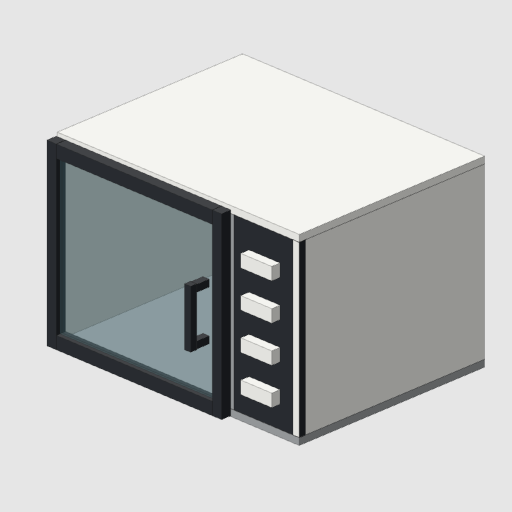
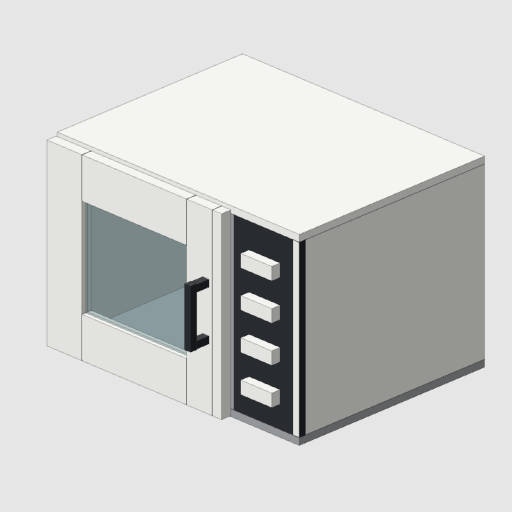
Refine microwave door, clockwise knobs and feature descriptions

Changed region(s): [[0.0938, 0.25, 0.4688, 0.8438]]

diff --git a/tests/microwave.test.js b/tests/microwave.test.js
@@ -1,4 +1,5 @@
 import { BoxGeometry, Group, Mesh, Vector3 } from 'three';
+import { DOMParser } from '@xmldom/xmldom';
 import { expect, it } from 'vitest';
 import * as microwave from '../assets/appliances/microwave/index.js';
 import { validateAsset } from '../validator/validate.js';
@@ -56,11 +57,72 @@ it('describes every layout, finish and opening style deterministically with exac
         expect(microwave.describe(params, () => n)).toBe(text);
         expect(text).toContain('0.47 m wide, 0.29 m tall and 0.41 m deep');
         expect(text).toContain(microwave.schema.parameters.finish.labels[finish]);
-        expect(text).toContain(controlLayout === 'dials' ? 'two dials and a start button' : 'a button panel');
+        expect(text).toContain(controlLayout === 'dials' ? 'two dials, a start button' : 'a button panel');
         expect(text).toContain(doorOpening === 'handle' ? 'raised door handle' : 'door-release button and a recessed pull edge');
         expect(text).toContain('looks worn.');
         expect(text).not.toContain('0.35');
+        const features = {
+          'dials/handle': 'two dials, a start button and a raised door handle',
+          'dials/release_button': 'two dials, a start button, a door-release button and a recessed pull edge',
+          'buttons/handle': 'a button panel and a raised door handle',
+          'buttons/release_button': 'a button panel, a door-release button and a recessed pull edge'
+        };
+        expect(text).toContain(features[controlLayout + '/' + doorOpening] + '.');
       }
+    }
+  }
+});
+
+it('turns both knob indicators clockwise from the front for positive joint positions', () => {
+  const root = microwave.createAsset();
+  for (const control of root.userData.controls.filter(c => c.type === 'knob')) {
+    const joint = root.userData.joints.find(j => j.name === control.joint);
+    const part = root.getObjectByName(joint.childPart);
+    const indicator = root.getObjectByName(control.name + '_indicator');
+    const before = indicator.getWorldPosition(new Vector3());
+    expect(joint.axis).toEqual([0, 0, -1]);
+    part.rotateOnAxis(new Vector3(...joint.axis), Math.PI / 2);
+    const after = indicator.getWorldPosition(new Vector3());
+    expect(after.x - before.x).toBeCloseTo(0.013, 9);
+    expect(after.y - before.y).toBeCloseTo(-0.013, 9);
+  }
+});
+
+it('surrounds a centered inset glass box with opaque panels in the shell finish', () => {
+  for (const finish of ['stainless', 'black', 'white']) for (const doorOpening of ['handle', 'release_button']) {
+    const root = microwave.createAsset({ finish, doorOpening });
+    const window = root.getObjectByName('door_window');
+    const left = root.getObjectByName('door_frame_left');
+    const top = root.getObjectByName('door_frame_top');
+    const bottom = root.getObjectByName('door_frame_bottom');
+    const right = root.getObjectByName('door_frame_right_inner');
+    const doorWidth = 0.52 * 0.73 - 0.004, doorHeight = 0.30 - 0.008;
+    expect(window.geometry.parameters.width).toBeCloseTo(doorWidth * 0.60, 9);
+    expect(window.geometry.parameters.height).toBeCloseTo(doorHeight * 0.55, 9);
+    expect(window.position.x).toBeCloseTo(doorWidth / 2, 9);
+    expect(window.position.y).toBe(0);
+    for (const panel of [left, top, bottom, right]) {
+      expect(panel.material).toBe(root.getObjectByName('case_top').material);
+      expect(panel.material.transparent).toBe(false);
+      expect(panel.material.opacity).toBe(1);
+    }
+    expect(left.position.x + left.geometry.parameters.width / 2)
+      .toBeCloseTo(window.position.x - window.geometry.parameters.width / 2, 9);
+    expect(right.position.x - right.geometry.parameters.width / 2)
+      .toBeCloseTo(window.position.x + window.geometry.parameters.width / 2, 9);
+    expect(top.position.y - top.geometry.parameters.height / 2).toBeCloseTo(window.geometry.parameters.height / 2, 9);
+    expect(bottom.position.y + bottom.geometry.parameters.height / 2).toBeCloseTo(-window.geometry.parameters.height / 2, 9);
+    expect(window.position.z + window.geometry.parameters.depth / 2)
+      .toBeLessThan(top.position.z + top.geometry.parameters.depth / 2);
+    const xml = new DOMParser().parseFromString(exportURDF(root).urdf, 'text/xml');
+    const visual = Array.from(xml.getElementsByTagName('visual')).find(e => e.getAttribute('name') === 'visual_door_window');
+    const collision = Array.from(xml.getElementsByTagName('collision')).find(e => e.getAttribute('name') === 'door_window');
+    for (const tag of ['origin', 'geometry']) {
+      expect(collision.getElementsByTagName(tag)[0].toString()).toBe(visual.getElementsByTagName(tag)[0].toString());
+    }
+    const dimensions = collision.getElementsByTagName('box')[0].getAttribute('size').split(' ').map(Number);
+    for (const [i, size] of [window.geometry.parameters.width, window.geometry.parameters.height, 0.004].entries()) {
+      expect(dimensions[i]).toBeCloseTo(size, 7);
     }
   }
 });

diff --git a/assets/appliances/microwave/index.js b/assets/appliances/microwave/index.js
@@ -19,10 +19,11 @@ export const schema = {
 
 export function describe(params, random) {
   const p = resolveParams(schema, params);
-  const layout = p.controlLayout === 'dials' ? 'two dials and a start button' : 'a button panel';
-  const opening = p.doorOpening === 'handle' ? 'a raised door handle' : 'a door-release button and a recessed pull edge';
+  const features = p.controlLayout === 'dials' ? ['two dials', 'a start button'] : ['a button panel'];
+  features.push(...(p.doorOpening === 'handle' ? ['a raised door handle'] : ['a door-release button', 'a recessed pull edge']));
+  const featureList = features.slice(0, -1).join(', ') + ' and ' + features.at(-1);
   const intro = random() < 0.5 ? 'A countertop microwave' : 'Build a countertop microwave';
-  return intro + ' with a ' + schema.parameters.finish.labels[p.finish] + ' finish, ' + layout + ' and ' + opening +
+  return intro + ' with a ' + schema.parameters.finish.labels[p.finish] + ' finish, ' + featureList +
     '. The case is ' + p.width.toFixed(2) + ' m wide, ' + p.height.toFixed(2) + ' m tall and ' + p.depth.toFixed(2) +
     ' m deep. It looks ' + wearBand(p.wear) + '.';
 }
@@ -77,14 +78,19 @@ export function createAsset(params = {}, { seed = 0 } = {}) {
 
   const doorWidth = width - panelWidth - 0.004, doorHeight = height - 0.008;
   const door = group(root, 'door', [-width / 2 + 0.002, height / 2, front + 0.022]);
-  box(door, 'door_frame_left', [0.018, doorHeight, 0.018], [0.009, 0, -0.009], dark);
+  const windowWidth = doorWidth * 0.60, windowHeight = doorHeight * 0.55;
+  const borderWidth = (doorWidth - windowWidth) / 2, borderHeight = (doorHeight - windowHeight) / 2;
+  box(door, 'door_frame_left', [borderWidth, doorHeight, 0.018], [borderWidth / 2, 0, -0.009]);
   for (const [side, sign] of [['top', 1], ['bottom', -1]]) {
-    box(door, 'door_frame_' + side, [doorWidth - 0.036, 0.022, 0.018],
-      [doorWidth / 2, sign * (doorHeight - 0.022) / 2, -0.009], dark);
+    box(door, 'door_frame_' + side, [windowWidth, borderHeight, 0.018],
+      [doorWidth / 2, sign * (doorHeight - borderHeight) / 2, -0.009]);
   }
-  box(door, 'door_window', [doorWidth - 0.036, doorHeight - 0.044, 0.004], [doorWidth / 2, 0, -0.009], glass);
+  box(door, 'door_window', [windowWidth, windowHeight, 0.004], [doorWidth / 2, 0, -0.009], glass);
+  // Reserve the outer 18 mm for the handle edge or the open recessed pull channel.
+  box(door, 'door_frame_right_inner', [borderWidth - 0.018, doorHeight, 0.018],
+    [doorWidth - (borderWidth + 0.018) / 2, 0, -0.009]);
   if (p.doorOpening === 'handle') {
-    box(door, 'door_frame_right', [0.018, doorHeight, 0.018], [doorWidth - 0.009, 0, -0.009], dark);
+    box(door, 'door_frame_right', [0.018, doorHeight, 0.018], [doorWidth - 0.009, 0, -0.009]);
     for (const [end, y] of [['top', 0.043], ['bottom', -0.043]]) {
       box(door, 'door_handle_mount_' + end, [0.012, 0.012, 0.024], [doorWidth - 0.030, y, 0.012], dark);
     }
@@ -94,10 +100,10 @@ export function createAsset(params = {}, { seed = 0 } = {}) {
     const segmentHeight = (doorHeight - 0.08) / 2;
     for (const [end, sign] of [['top', 1], ['bottom', -1]]) {
       box(door, 'door_edge_' + end, [0.018, segmentHeight, 0.018],
-        [doorWidth - 0.009, sign * (0.04 + segmentHeight / 2), -0.009], dark);
+        [doorWidth - 0.009, sign * (0.04 + segmentHeight / 2), -0.009]);
     }
     box(door, 'door_pull_back', [0.018, 0.08, 0.003], [doorWidth - 0.009, 0, -0.0165], dark);
-    box(door, 'door_pull_edge', [0.006, 0.08, 0.004], [doorWidth - 0.003, 0, -0.002], dark);
+    box(door, 'door_pull_edge', [0.006, 0.08, 0.004], [doorWidth - 0.003, 0, -0.002]);
     affordances.push({ type: 'grasp', grip: 'recessed', part: 'door_pull_edge', point: [-0.009, 0, -0.005] });
   }
   joints.push({ name: 'door_hinge', type: 'revolute', axis: [0, -1, 0], limits: [0, 1.75],
@@ -125,7 +131,7 @@ export function createAsset(params = {}, { seed = 0 } = {}) {
     massKg += 12 * Math.sin(2 * Math.PI / 24) * radius * radius * length * shell.userData.densityKgM3;
     box(moving, name + '_indicator', [0.003, 0.006, 0.001], [0, 0.013, length / 2 + 0.0005], mark);
     const upper = 1.5 * Math.PI;
-    joints.push({ name: joint, type: 'revolute', axis: [0, 0, 1], limits: [0, upper],
+    joints.push({ name: joint, type: 'revolute', axis: [0, 0, -1], limits: [0, upper],
       childPart: name, dynamics: { damping: 0.04, friction: 0.02 }, effort: 0.3, velocity: 5 });
     controls.push({ name, type: 'knob', function: fn, label: fn === 'timer' ? 'TIMER' : 'POWER',
       icon: fn === 'timer' ? 'clock' : 'power', joint,

diff --git a/assets/appliances/microwave/README.md b/assets/appliances/microwave/README.md
@@ -1,6 +1,6 @@
 # Microwave v0.1.0
 
-A countertop appliance with a hollow chamber, left-hinged door, semi-transparent glass and a right-hand control panel occupying 27% of the width. +Y is up and +Z faces the user. The origin is the case footprint center at floor level.
+A countertop appliance with a hollow chamber, an opaque left-hinged door in the shell finish and a right-hand control panel occupying 27% of the width. A centered, inset glass window spans 60% of the door width and 55% of its height, surrounded by solid panels. +Y is up and +Z faces the user. The origin is the case footprint center at floor level.
 
 | Parameter | Default | Domain |
 | --- | --- | --- |
@@ -24,7 +24,7 @@ const slide = root.userData.joints.find(j => j.name === start.joint);
 
 The dials layout has a 0–30 minute timer in one-minute detents, five power settings (20–100%) and a start button. The release-button opening style adds a separate OPEN button to this layout. The buttons layout has START, STOP, +30 s and OPEN. Labels and icon IDs are metadata in this release.
 
-Buttons travel 3 mm into the panel, register a press at 60% travel, and use a 300 N/m return spring with zero rest position. Knobs rotate through 270° and use joint friction to hold their position. The state is the nearest detent value; an exact midpoint chooses the lower index. Control rectangles use local X and Y on the front faces.
+Buttons travel 3 mm into the panel, register a press at 60% travel, and use a 300 N/m return spring with zero rest position. Knobs rotate clockwise as seen from the front through 270° around axis [0, 0, -1] and use joint friction to hold their position. The state is the nearest detent value; an exact midpoint chooses the lower index. Control rectangles use local X and Y on the front faces.
 
 The raised bar uses a grasp point at its center. The release-button variant has a recessed right-edge pull, with a grasp point in its free channel. The door swings outward from 0 to 1.75 rad. A real latch is not simulated. The OPEN control represents a release request and the edge remains available for pulling.
 
